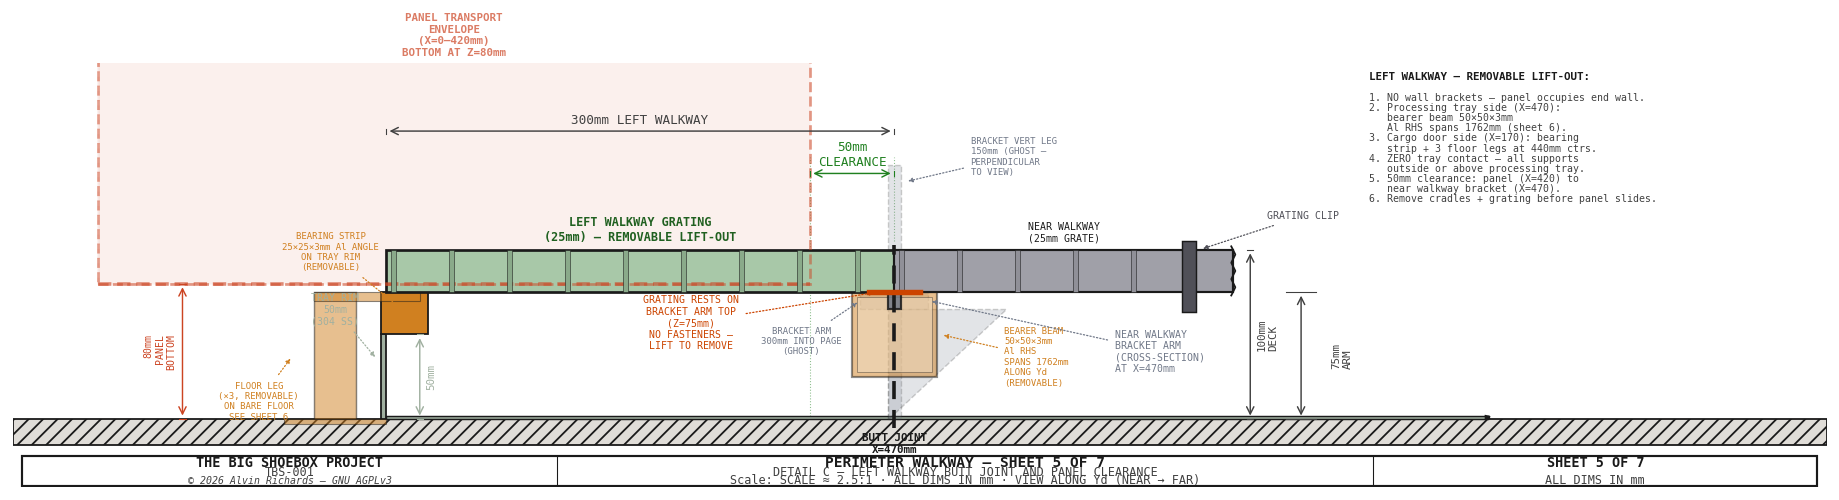
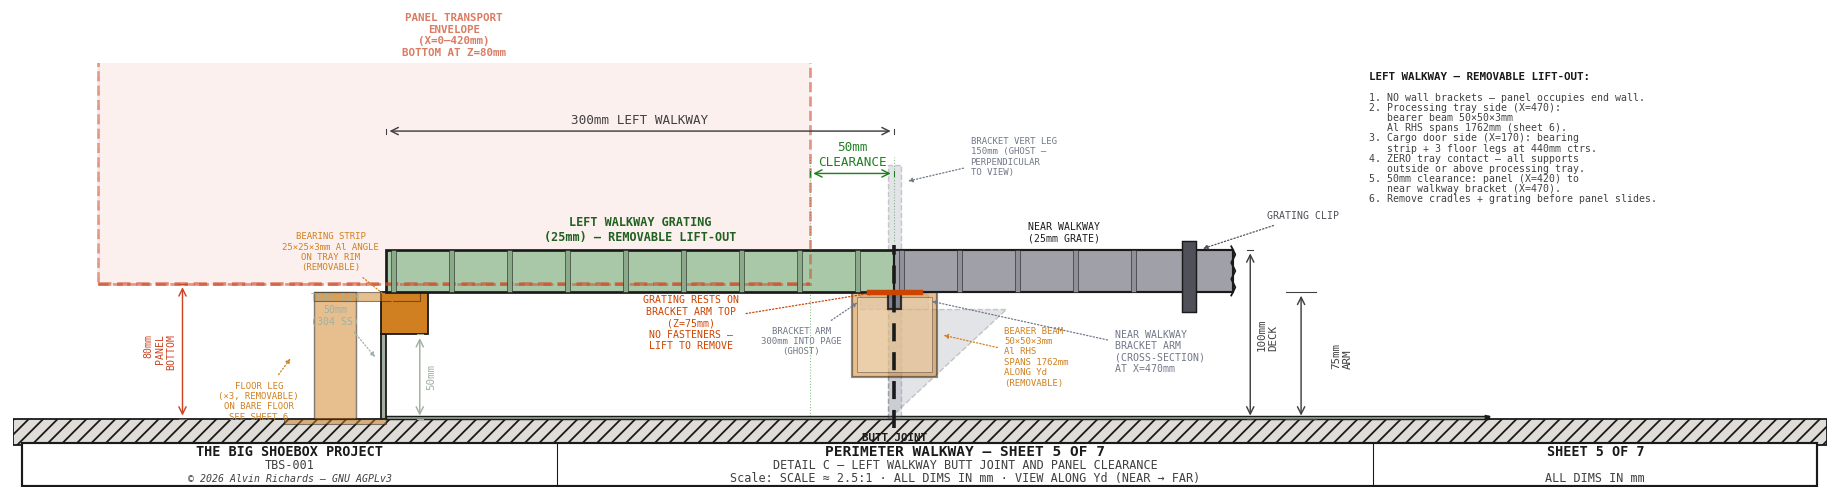
Sheet 5: increase title block height for better text spacing

Changed region(s): [[0.0, 0.87, 0.9918, 0.99]]

diff --git a/generate_walkway_diagram.py b/generate_walkway_diagram.py
@@ -1794,7 +1794,7 @@ def sheet5():
                 drawing_title="PERIMETER WALKWAY",
                 subtitle="DETAIL C \u2014 LEFT WALKWAY BUTT JOINT AND PANEL CLEARANCE",
                 scale_note=f"SCALE \u2248 2.5:1 \u00b7 ALL DIMS IN mm \u00b7 VIEW ALONG Yd (NEAR \u2192 FAR)",
-                height=0.07)
+                height=0.10)
 
     fig.savefig("diagrams/walkway-sheet5.png", dpi=130, bbox_inches="tight", facecolor=BG)
     fig.savefig(svg_path("diagrams/walkway-sheet5.png"), bbox_inches="tight", facecolor=BG)
